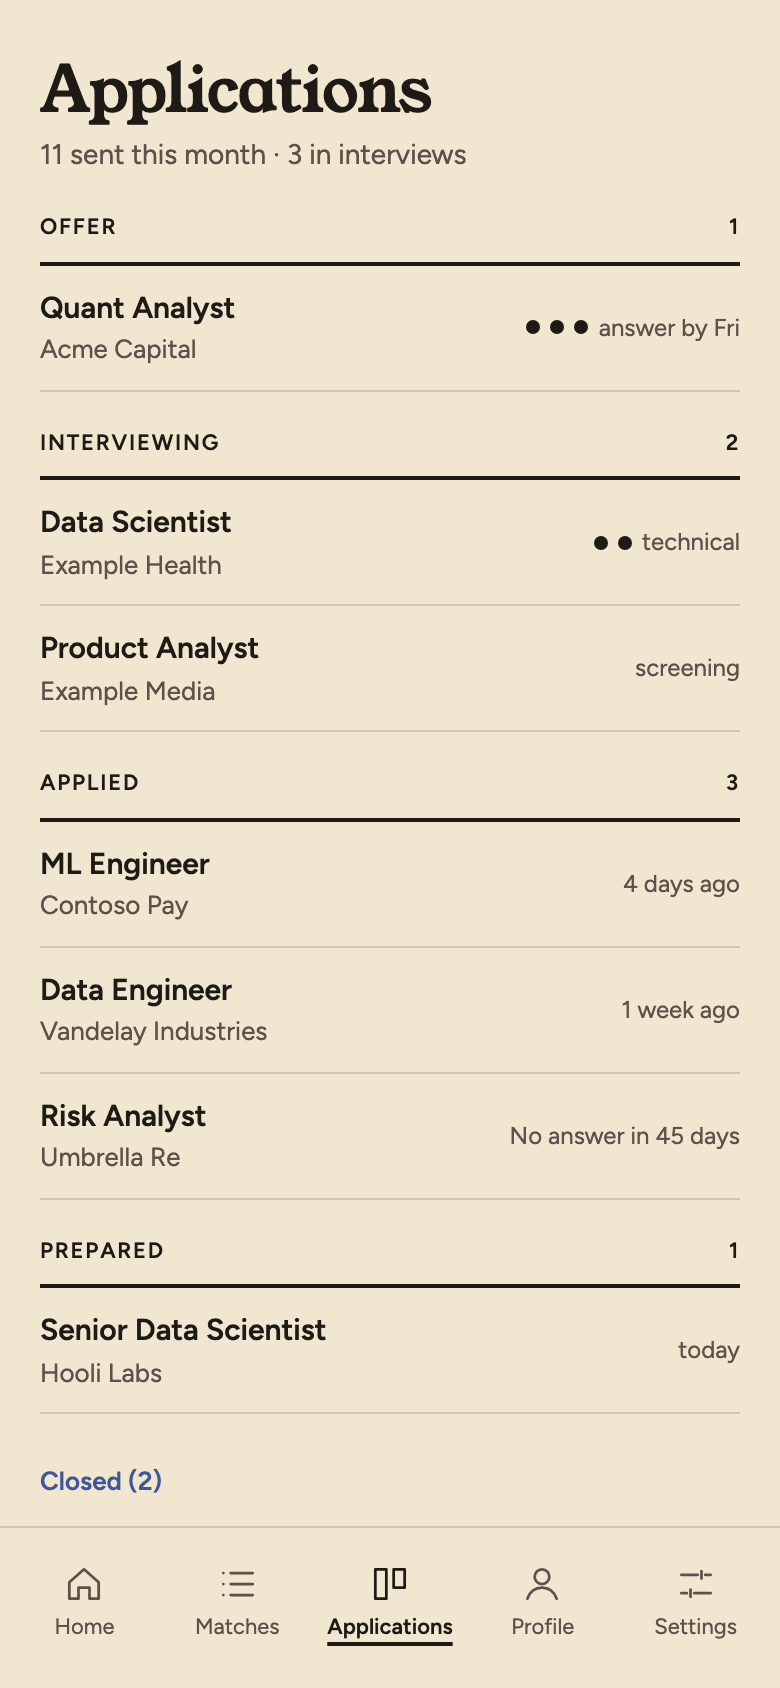
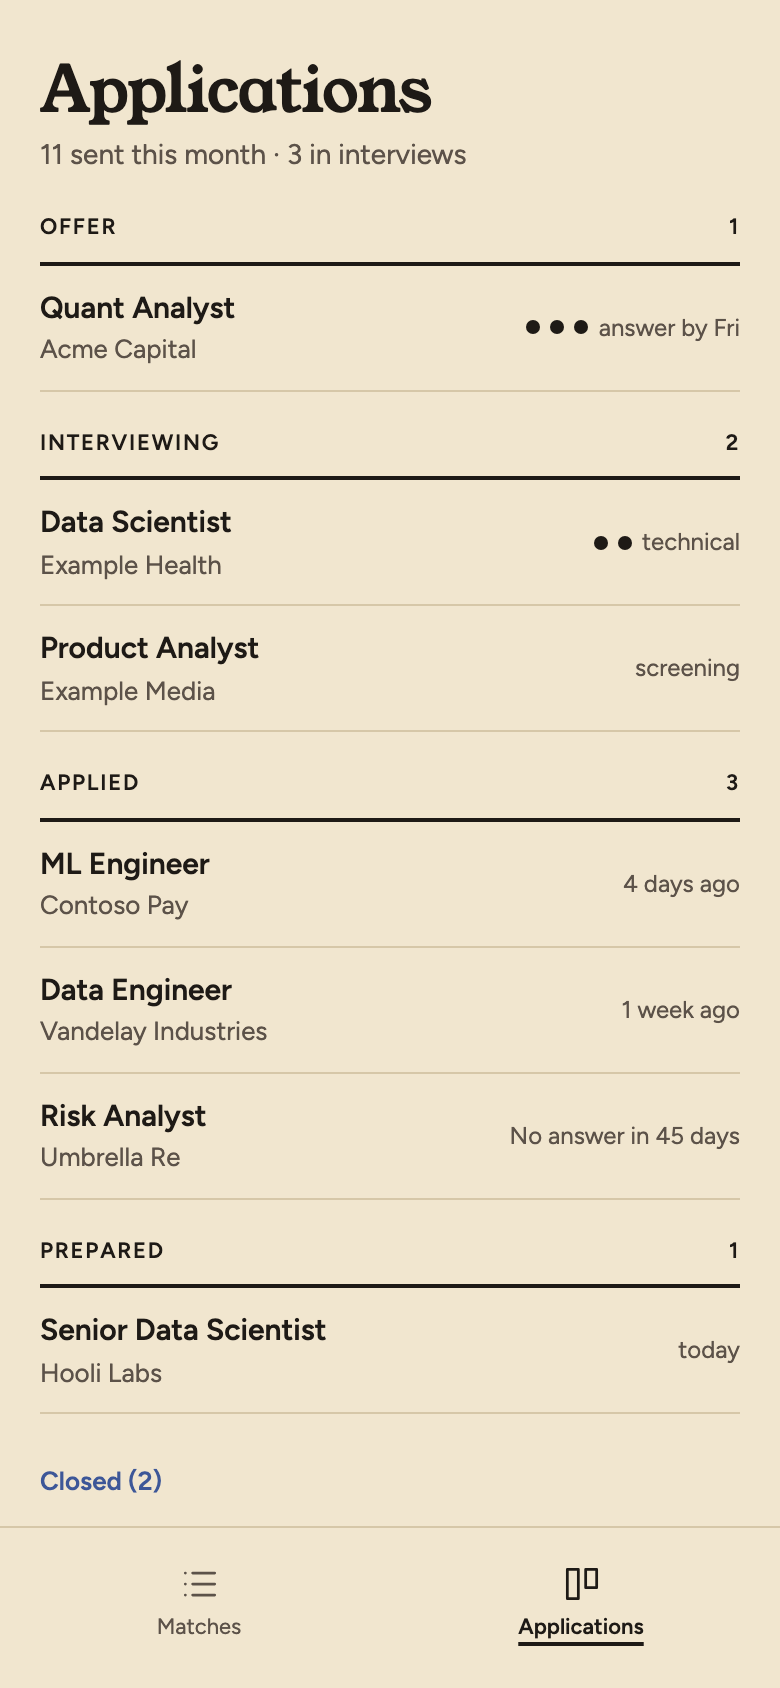
fix: the phone's own screens follow the design rules and are in the visual guide
Continue here is the quiet way out, Open in Chrome ends in the arrow of a link that leaves the app,
one wording for an unreachable computer, and the phone mockups are light with two tabs.

Claude-Session: https://claude.ai/code/session_01X7AZRFNsTqyo3hxL6sn1qn

diff --git a/docs/design/mockups/PhoneFinding.dc.html b/docs/design/mockups/PhoneFinding.dc.html
@@ -21,7 +21,7 @@ button{font:inherit}
       <p style="margin: 6px 0 0; color: #5C5249">Started 08:02 on the computer running The other door. You can lock the phone.</p>
     </div>
     <ol style="list-style: none; margin: 0; padding: 0; display: flex; flex-direction: column; border-top: 2px solid #1E1A16">
-      <sc-for list="{{steps}}" as="s" hint-placeholder-count="5">
+      <sc-for list="{{steps}}" as="s" hint-placeholder-count="2">
         <li style="display: grid; grid-template-columns: 28px minmax(0, 1fr) auto; gap: 12px; align-items: start; padding: 13px 0; border-bottom: 1px solid #D6C7A8">
           <span aria-hidden="true" style="{{s.dot}}">{{s.mark}}</span>
           <span style="display: flex; flex-direction: column">
@@ -37,8 +37,8 @@ button{font:inherit}
     </ol>
     <button type="button" style="align-self: flex-start; height: 32px; padding: 0; border: 0; background: none; color: #3D5798; font-weight: 600; font-size: 13px">Stop after this step</button>
   </main>
-  <nav aria-label="Main" style="flex: none; display: grid; grid-template-columns: repeat(5, minmax(0, 1fr)); padding: 6px 4px 22px; border-top: 1px solid #D6C7A8; background: #F1E6CF">
-    <sc-for list="{{tabs}}" as="tab" hint-placeholder-count="5">
+  <nav aria-label="Main" style="flex: none; display: grid; grid-template-columns: repeat(2, minmax(0, 1fr)); padding: 6px 4px 22px; border-top: 1px solid #D6C7A8; background: #F1E6CF">
+    <sc-for list="{{tabs}}" as="tab" hint-placeholder-count="2">
       <a href="#" style="min-height: 52px; display: flex; flex-direction: column; align-items: center; justify-content: flex-end; gap: 3px; text-decoration: none; font-size: 11px; color: {{tab.color}}; font-weight: {{tab.weight}}">
         <svg width="22" height="22" viewBox="0 0 24 24" fill="none" stroke="currentColor" stroke-width="1.5" stroke-linecap="round" stroke-linejoin="round" aria-hidden="true"><path d="{{tab.icon}}"></path></svg>
         <span style="text-decoration: {{tab.deco}}; text-decoration-thickness: 2px; text-underline-offset: 4px">{{tab.label}}</span>
@@ -62,11 +62,8 @@ class Component extends DCLogic {
       { name: 'Match', detail: 'Scores the new ads', time: '', state: 'wait' }
     ].map((s, i) => ({ ...s, running: s.state === 'run', mark: s.state === 'done' ? '✓' : String(i + 1), dot: s.state === 'done' ? done : s.state === 'run' ? run : wait, nameStyle: name + (s.state === 'wait' ? ' color: #5C5249;' : '') }));
     const icons = {
-      Home: 'M4 11l8-7 8 7v9h-5v-6h-6v6H4z',
       Matches: 'M8 6h12M8 12h12M8 18h12M4 6h.01M4 12h.01M4 18h.01',
-      Applications: 'M4 4h6v16H4zM14 4h6v10h-6z',
-      Profile: 'M12 12a4 4 0 1 0 0-8 4 4 0 0 0 0 8zM4 20c1.5-4 4.5-6 8-6s6.5 2 8 6',
-      Settings: 'M4 7h9M17 7h3M4 17h3M11 17h9M15 5v4M9 15v4'
+      Applications: 'M4 4h6v16H4zM14 4h6v10h-6z'
     };
     const tabs = Object.keys(icons).map(label => ({ label, icon: icons[label], color: label === 'Home' ? '#1E1A16' : '#5C5249', weight: label === 'Home' ? '600' : '400', deco: label === 'Home' ? 'underline' : 'none' }));
     return { steps, tabs };

diff --git a/app/src/web/Web.tsx b/app/src/web/Web.tsx
@@ -6,6 +6,7 @@ import { App } from '../renderer/App'
 import { Splash } from '../renderer/Splash'
 import { NOTHING_BEHIND, createWebDoor } from './bridge'
 import { InstallLine } from './InstallLine'
+import { OpenInChromeView, UnreachableView } from './PhoneScreens'
 import { Pair, codeFromHash } from './Pair'
 import { sharedFrom, type Shared } from './share'
 import type { TokenStore } from './token-store'
@@ -115,42 +116,15 @@ export function Web({ store, fetch }: { store: TokenStore; fetch: typeof globalT
   if (state.kind === 'unreachable') {
     const token = state.token
     return (
-      <main className="onb pair">
-        <h1 className="display-l">Can't reach your computer</h1>
-        <p className="body">
-          Make sure your computer is on and <AppName /> is open on it. If you set up your phone again there, scan the new code.
-        </p>
-        <div className="actions">
-          <button
-            type="button"
-            className="primary"
-            onClick={() => {
-              setState({ kind: 'loading' })
-              void enter(token).then((ok) => ok || unpaired())
-            }}
-          >
-            Try again
-          </button>
-        </div>
-      </main>
+      <UnreachableView
+        onRetry={() => {
+          setState({ kind: 'loading' })
+          void enter(token).then((ok) => ok || unpaired())
+        }}
+      />
     )
   }
-  if (state.kind === 'pair' && code && !here) {
-    return (
-      <main className="onb pair">
-        <h1 className="display-l">Open in Chrome</h1>
-        <p className="body">Chrome puts <AppName /> on your home screen as an app. Other browsers add their own badge to its icon.</p>
-        <div className="actions">
-          <button type="button" className="secondary" onClick={() => setHere(true)}>
-            Continue here
-          </button>
-          <a className="primary" href={inChrome()}>
-            Open in Chrome
-          </a>
-        </div>
-      </main>
-    )
-  }
+  if (state.kind === 'pair' && code && !here) return <OpenInChromeView href={inChrome()} onHere={() => setHere(true)} />
   if (state.kind === 'pair') {
     return (
       <Pair

diff --git a/docs/design/mockups/PhoneApplications.dc.html b/docs/design/mockups/PhoneApplications.dc.html
@@ -44,8 +44,8 @@ button{font:inherit}
     </sc-for>
     <button type="button" style="align-self: flex-start; height: 32px; padding: 0; border: 0; background: none; color: #3D5798; font-weight: 600; font-size: 13px">Closed (2)</button>
   </main>
-  <nav aria-label="Main" style="flex: none; display: grid; grid-template-columns: repeat(5, minmax(0, 1fr)); padding: 6px 4px 22px; border-top: 1px solid #D6C7A8; background: #F1E6CF">
-    <sc-for list="{{tabs}}" as="tab" hint-placeholder-count="5">
+  <nav aria-label="Main" style="flex: none; display: grid; grid-template-columns: repeat(2, minmax(0, 1fr)); padding: 6px 4px 22px; border-top: 1px solid #D6C7A8; background: #F1E6CF">
+    <sc-for list="{{tabs}}" as="tab" hint-placeholder-count="2">
       <a href="#" style="min-height: 52px; display: flex; flex-direction: column; align-items: center; justify-content: flex-end; gap: 3px; text-decoration: none; font-size: 11px; color: {{tab.color}}; font-weight: {{tab.weight}}">
         <svg width="22" height="22" viewBox="0 0 24 24" fill="none" stroke="currentColor" stroke-width="1.5" stroke-linecap="round" stroke-linejoin="round" aria-hidden="true"><path d="{{tab.icon}}"></path></svg>
         <span style="text-decoration: {{tab.deco}}; text-decoration-thickness: 2px; text-underline-offset: 4px">{{tab.label}}</span>
@@ -67,11 +67,8 @@ class Component extends DCLogic {
       { name: 'Prepared', items: [c('Senior Data Scientist', 'Hooli Labs', 'today')] }
     ].map(g => ({ ...g, n: String(g.items.length) }));
     const icons = {
-      Home: 'M4 11l8-7 8 7v9h-5v-6h-6v6H4z',
       Matches: 'M8 6h12M8 12h12M8 18h12M4 6h.01M4 12h.01M4 18h.01',
-      Applications: 'M4 4h6v16H4zM14 4h6v10h-6z',
-      Profile: 'M12 12a4 4 0 1 0 0-8 4 4 0 0 0 0 8zM4 20c1.5-4 4.5-6 8-6s6.5 2 8 6',
-      Settings: 'M4 7h9M17 7h3M4 17h3M11 17h9M15 5v4M9 15v4'
+      Applications: 'M4 4h6v16H4zM14 4h6v10h-6z'
     };
     const on = 'Applications';
     const tabs = Object.keys(icons).map(label => ({ label, icon: icons[label], color: label === on ? '#1E1A16' : '#5C5249', weight: label === on ? '600' : '400', deco: label === on ? 'underline' : 'none' }));

diff --git a/docs/design/mockups/PhoneMatches.dc.html b/docs/design/mockups/PhoneMatches.dc.html
@@ -43,8 +43,8 @@ button{font:inherit}
       </sc-for>
     </ul>
   </main>
-  <nav aria-label="Main" style="flex: none; display: grid; grid-template-columns: repeat(5, minmax(0, 1fr)); padding: 6px 4px 22px; border-top: 1px solid {{t.rule}}; background: {{t.ground}}">
-    <sc-for list="{{tabs}}" as="tab" hint-placeholder-count="5">
+  <nav aria-label="Main" style="flex: none; display: grid; grid-template-columns: repeat(2, minmax(0, 1fr)); padding: 6px 4px 22px; border-top: 1px solid {{t.rule}}; background: {{t.ground}}">
+    <sc-for list="{{tabs}}" as="tab" hint-placeholder-count="2">
       <a href="#" style="min-height: 52px; display: flex; flex-direction: column; align-items: center; justify-content: flex-end; gap: 3px; text-decoration: none; font-size: 11px; color: {{tab.color}}; font-weight: {{tab.weight}}">
         <svg width="22" height="22" viewBox="0 0 24 24" fill="none" stroke="currentColor" stroke-width="1.5" stroke-linecap="round" stroke-linejoin="round" aria-hidden="true"><path d="{{tab.icon}}"></path></svg>
         <span style="text-decoration: {{tab.deco}}; text-decoration-thickness: 2px; text-underline-offset: 4px">{{tab.label}}</span>
@@ -69,11 +69,8 @@ class Component extends DCLogic {
       { title: 'Quantitative Analyst', company: 'Acme Capital', place: 'Hellerup', score: '70%', isNew: false }
     ];
     const icons = {
-      Home: 'M4 11l8-7 8 7v9h-5v-6h-6v6H4z',
       Matches: 'M8 6h12M8 12h12M8 18h12M4 6h.01M4 12h.01M4 18h.01',
-      Applications: 'M4 4h6v16H4zM14 4h6v10h-6z',
-      Profile: 'M12 12a4 4 0 1 0 0-8 4 4 0 0 0 0 8zM4 20c1.5-4 4.5-6 8-6s6.5 2 8 6',
-      Settings: 'M4 7h9M17 7h3M4 17h3M11 17h9M15 5v4M9 15v4'
+      Applications: 'M4 4h6v16H4zM14 4h6v10h-6z'
     };
     const active = this.props.tab ?? 'Matches';
     const tabs = Object.keys(icons).map(label => ({

diff --git a/app/src/preview/Guide.tsx b/app/src/preview/Guide.tsx
@@ -8,6 +8,7 @@ import { ErrorBox } from '../renderer/screens/AppName'
 import { Hint } from '../renderer/screens/Hint'
 import { BackButton } from '../renderer/screens/BackButton'
 import { InstallLineView } from '../web/InstallLine'
+import { OpenInChromeView, UnreachableView } from '../web/PhoneScreens'
 
 const COLOURS = [
   'ground', 'surface', 'page', 'ink', 'ink-muted', 'border',
@@ -45,6 +46,9 @@ export function Guide() {
           <Row label="primary">
             <button type="button" className="primary">Prepare application</button>
             <button type="button" className="primary" disabled>Disabled</button>
+          </Row>
+          <Row label="primary link (leaves the app)">
+            <a className="primary go" href="#guide">Open in Chrome</a>
           </Row>
           <Row label="secondary">
             <div className="actions">
@@ -190,6 +194,14 @@ export function Guide() {
             <div style={{ width: '100%', minWidth: 0 }}>
               <InstallLineView what="prompt" onInstall={() => undefined} onDismiss={() => undefined} />
               <InstallLineView what="ios" onInstall={() => undefined} onDismiss={() => undefined} />
+            </div>
+          </Row>
+          <Row label="phone screens">
+            <div style={{ width: 390, maxWidth: '100%', border: '1px solid var(--color-border)' }}>
+              <UnreachableView onRetry={() => undefined} />
+            </div>
+            <div style={{ width: 390, maxWidth: '100%', border: '1px solid var(--color-border)' }}>
+              <OpenInChromeView href="#guide" onHere={() => undefined} />
             </div>
           </Row>
           <Row label="error">

diff --git a/app/src/web/PhoneScreens.tsx b/app/src/web/PhoneScreens.tsx
@@ -1,0 +1,41 @@
+// The phone app's own two screens, around the desktop screens it shows (the visual guide shows them too):
+// a computer it cannot reach, and a pairing link opened in another Android browser.
+import { AppName } from '../renderer/screens/AppName'
+
+/** The words for a computer the phone cannot reach, on its own screen and under any call that fails so. */
+export const UNREACHABLE_HELP = 'Make sure it is on and The other door is open on it. If you set up your phone again there, scan the new code.'
+
+export function UnreachableView({ onRetry }: { onRetry: () => void }) {
+  return (
+    <main className="onb pair">
+      <h1 className="display-l">Can't reach your computer</h1>
+      <p className="body">
+        Make sure it is on and <AppName /> is open on it. If you set up your phone again there, scan the new code.
+      </p>
+      <div className="actions">
+        <button type="button" className="primary" onClick={onRetry}>
+          Try again
+        </button>
+      </div>
+    </main>
+  )
+}
+
+export function OpenInChromeView({ href, onHere }: { href: string; onHere: () => void }) {
+  return (
+    <main className="onb pair">
+      <h1 className="display-l">Open in Chrome</h1>
+      <p className="body">
+        Chrome puts <AppName /> on your home screen as an app. Other browsers add their own badge to its icon.
+      </p>
+      <div className="actions">
+        <button type="button" className="quiet" onClick={onHere}>
+          Continue here
+        </button>
+        <a className="primary go" href={href}>
+          Open in Chrome
+        </a>
+      </div>
+    </main>
+  )
+}

diff --git a/app/src/web/bridge.test.ts b/app/src/web/bridge.test.ts
@@ -57,7 +57,7 @@ describe('createWebDoor', () => {
 
   it('an unreachable server is said in words', async () => {
     const { door } = setup(() => new TypeError('Failed to fetch'))
-    expect(await door.call('list_matches')).toEqual({ ok: false, error: "Can't reach The other door. Is the computer on? If it restarted, set your phone up again on it and scan the new code." })
+    expect(await door.call('list_matches')).toEqual({ ok: false, error: "Can't reach your computer. Make sure it is on and The other door is open on it. If you set up your phone again there, scan the new code." })
   })
 
   it('a long tool that started is followed to its result, with progress from status_summary', async () => {
@@ -103,7 +103,7 @@ describe('createWebDoor', () => {
       const door = createWebDoor({ fetch: vi.fn(async () => new Response('<html>', { status })) as never, token: async () => 't', onUnpaired: vi.fn(), visible: () => true, whenVisible: async () => undefined, open: vi.fn(), download: vi.fn() })
       const r = await door.call('list_matches')
       expect(r).toMatchObject({ ok: false })
-      expect((r as { error: string }).error).toMatch(/Can't reach The other door.*scan the new code/)
+      expect((r as { error: string }).error).toMatch(/Can't reach your computer.*scan the new code/)
     }
   })
 

diff --git a/app/src/web/bridge.ts b/app/src/web/bridge.ts
@@ -10,6 +10,7 @@ import type { LoginState } from '../main/claude-login'
 import type { PickResult } from '../main/cv-sources'
 import type { NoticeTarget } from '../main/notices'
 import type { RunBoard } from '../main/run-board'
+import { UNREACHABLE_HELP } from './PhoneScreens'
 
 type Impl = { [A in ActionName]?: (...args: ActionArgs<A>) => ActionResult<A> | Promise<ActionResult<A>> }
 type Progress = { progress: number; total?: number; message: string }
@@ -31,7 +32,7 @@ export interface WebDeps {
 
 export const LONG_TOOLS = new Set(['find_jobs', 'prepare'])
 export const ON_THE_MACHINE = 'Do this on the computer running The other door.'
-const UNREACHABLE = "Can't reach The other door. Is the computer on? If it restarted, set your phone up again on it and scan the new code."
+const UNREACHABLE = `Can't reach your computer. ${UNREACHABLE_HELP}`
 /** What a tunnel answers with no computer behind it (502-504, Cloudflare's 52x and 530). */
 export const NOTHING_BEHIND = (status: number) => (status >= 502 && status <= 504) || (status >= 520 && status <= 530)
 const UNPAIRED = 'This phone is no longer paired with The other door. Pair it again with a new code.'

diff --git a/docs/design/mockups/render.js b/docs/design/mockups/render.js
@@ -11,7 +11,7 @@ const DESKTOP = { width: 1280, height: 800 }, PHONE = { width: 390, height: 844 
 const SHOTS = [
   ['Main', 'matches', DESKTOP], ['Prepare', 'prepared', DESKTOP], ['Find', 'finding-jobs', DESKTOP],
   ['Applications', 'applications', DESKTOP], ['Review', 'review-dark', DESKTOP],
-  ['PhoneMatches', 'phone-matches', PHONE], ['PhoneMatches', 'phone-matches-dark', PHONE, '?dark=true'],
+  ['PhoneMatches', 'phone-matches', PHONE],
   ['PhonePosting', 'phone-posting', PHONE], ['PhonePrepared', 'phone-prepared', PHONE],
   ['PhoneFinding', 'phone-finding-jobs', PHONE], ['PhoneApplications', 'phone-applications', PHONE],
 ];

diff --git a/app/src/preview/preview.test.tsx b/app/src/preview/preview.test.tsx
@@ -83,7 +83,7 @@ describe('the visual guide', () => {
   it('shows every kind of button, enabled and disabled', () => {
     render(<Guide />)
     const count = (sel: string) => document.querySelectorAll(sel).length
-    const counts = { primary: [2, 1], secondary: [4, 1], quiet: [3, 1] }
+    const counts = { primary: [3, 1], secondary: [4, 1], quiet: [4, 1] }
     for (const [kind, [enabled, disabled]] of Object.entries(counts)) {
       expect(count(`button.${kind}:not(.sidebar-problem, .sidebar-find *):not(:disabled)`)).toBe(enabled)
       expect(count(`button.${kind}:disabled`)).toBe(disabled)

diff --git a/docs/design/README.md b/docs/design/README.md
@@ -301,11 +301,11 @@ components; only the layout changes below the sidebar breakpoint (`size.sidebar-
 - **Always light** on the phone: an installed Android app's status and navigation bars take one colour, the
   install's parchment, so a dark app would sit between light bars.
 
-![Phone screens: Matches light and dark, posting, ready to send, finding jobs, applications](screens/phones.png)
+![Phone screens: Matches, posting, ready to send, finding jobs, applications](screens/phones.png)
 
 ## Dark mode
 
-Follow the system setting, with an override in Settings. Dark swaps the ground and ink
+Follow the system setting, with an override in Settings (the desktop app only: the phone is always light). Dark swaps the ground and ink
 (ink `#1E1A16` becomes the ground, parchment the text) and uses the lighter blue from
 the table; the layouts and components stay the same.
 
